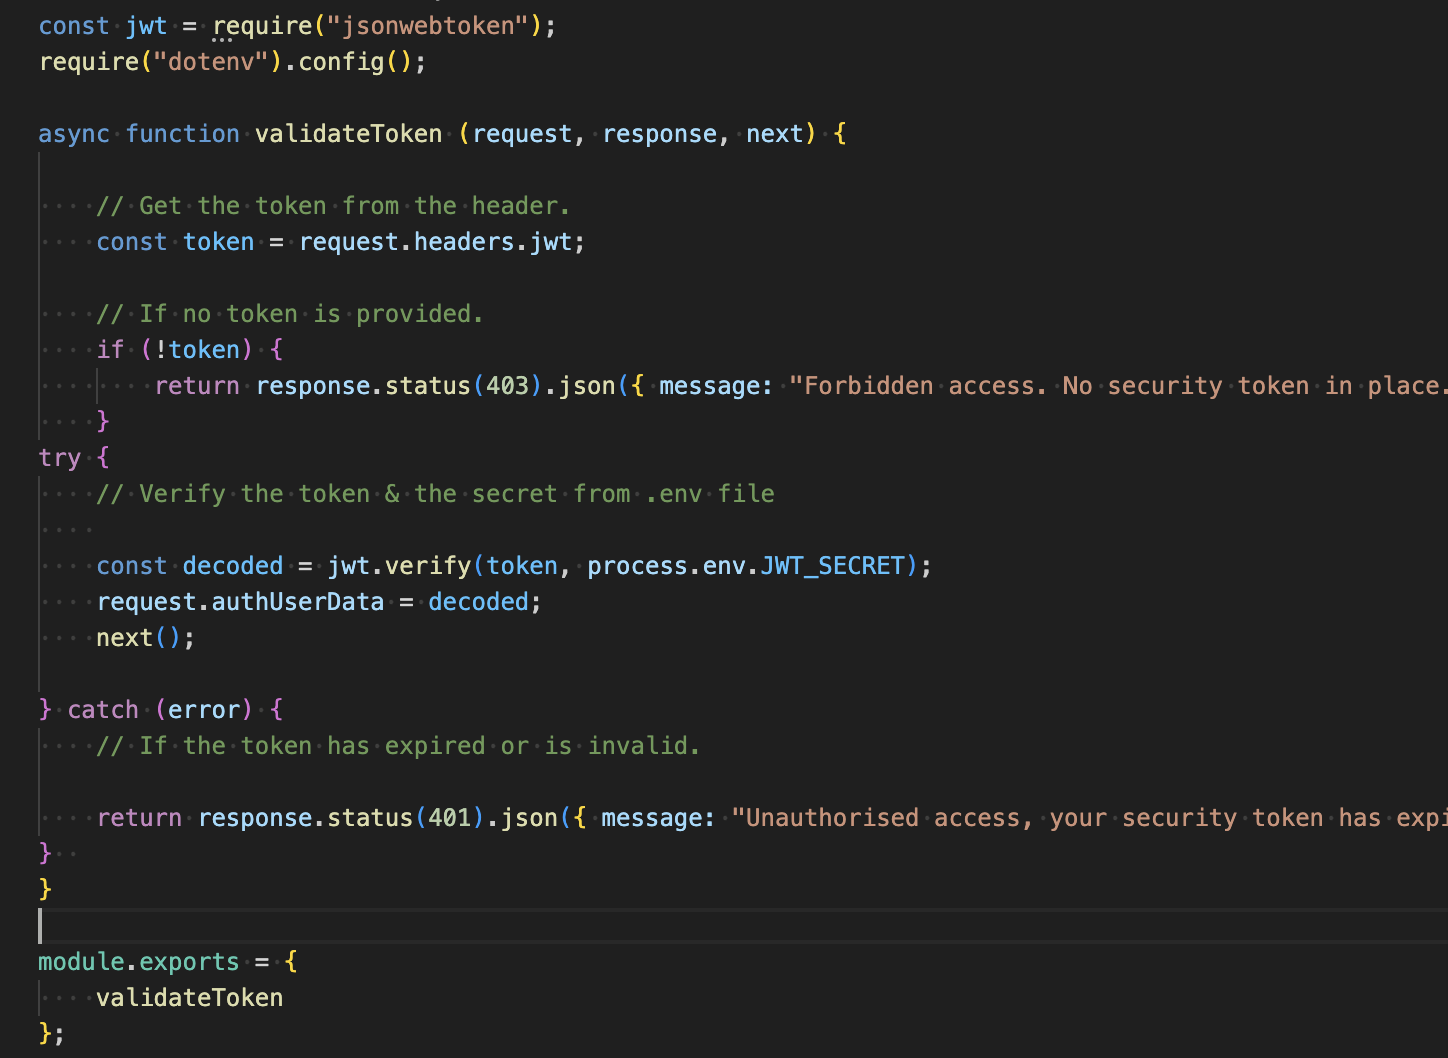
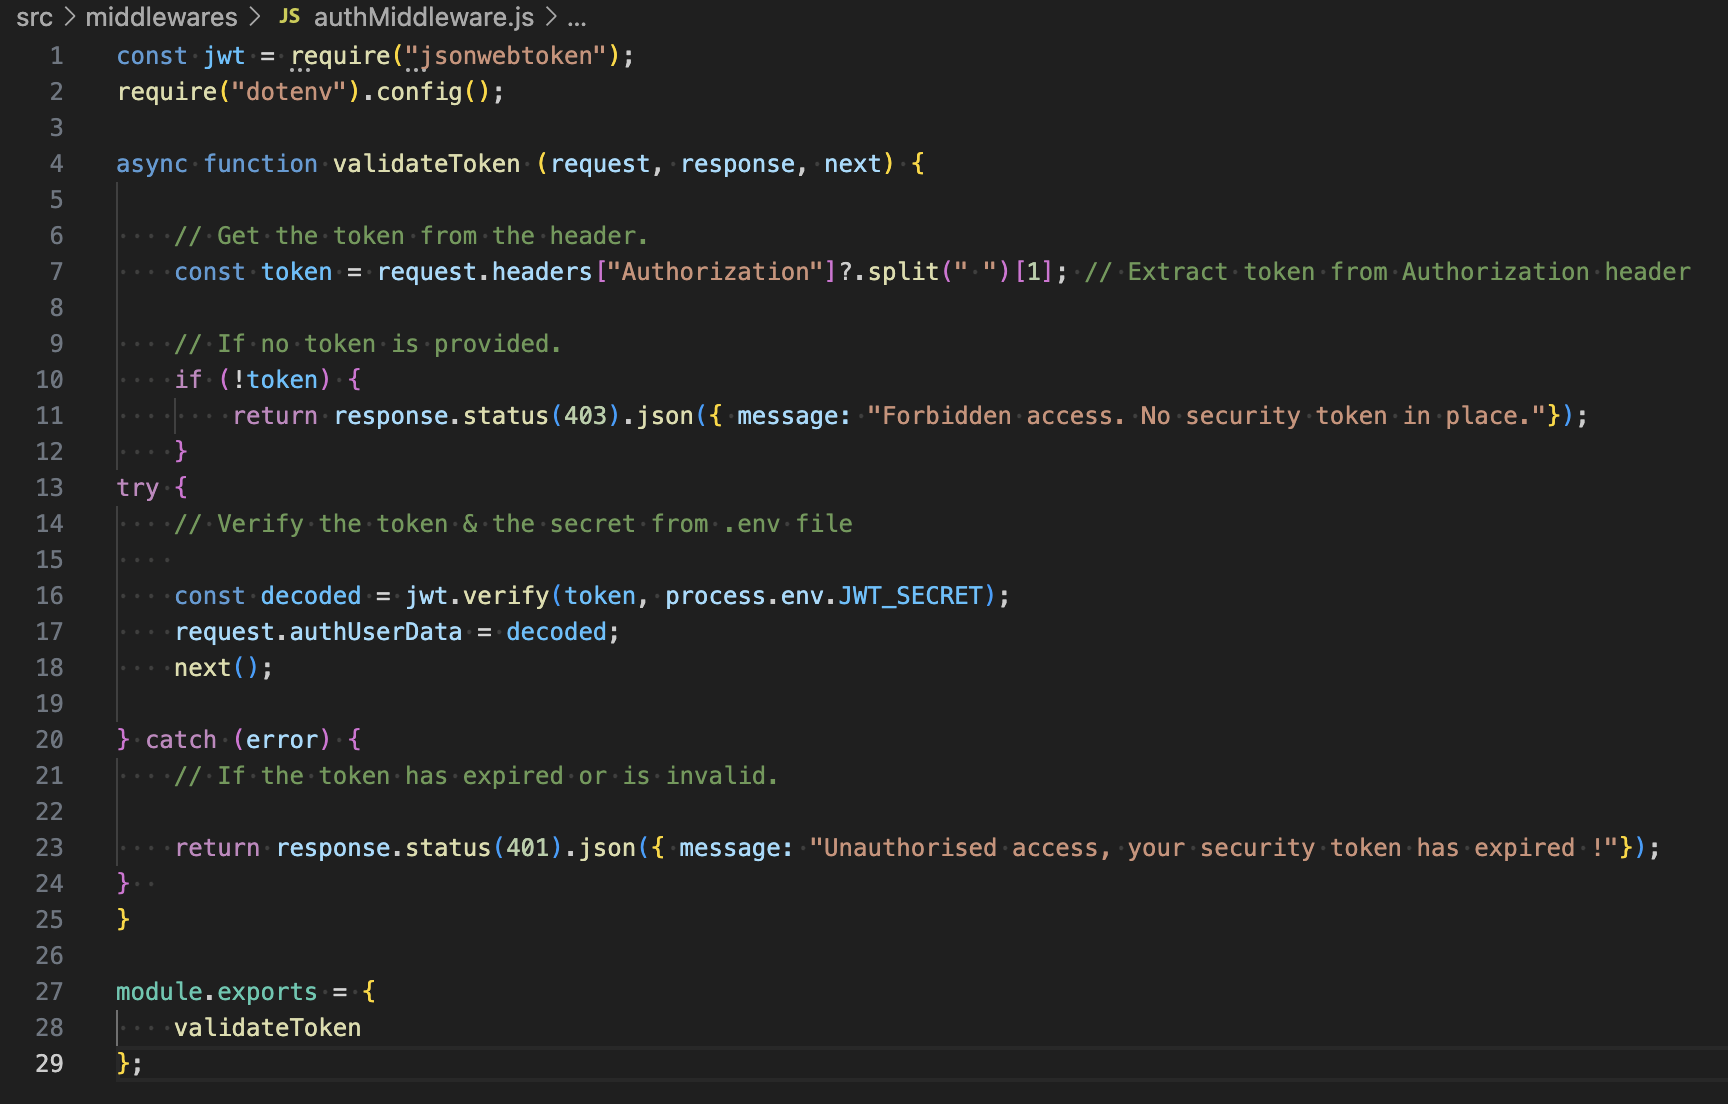
docs: Updated ReadMe file Server5 due to amended code.

diff --git a/server5.md b/server5.md
@@ -3,8 +3,11 @@
 ## Auth Middleware
 ![image_auth_middleware](./src/images/auth_middleware.png)
 
+This code defines a middleware function (validatteToken) for validating a JWT (JSON Web Token) authentication in Node.js application, it uses the jsonwebtoken library to verify tokens and check the user access to protected routes.
 
     const jwt = require("jsonwebtoken");
+
+#### Importing Dependencies
 
 This line of code imports the jsonwebtoken package which a library used to create, verify and decode JWT JSON Web Tokens. A JWT is a compact URL safe way of representing claims to be transferred between two parties, it is often used in authentication for web applications. When a user logs into the server it creates a JWT that contains the users identity or user ID it then reverts that back to the client. The client then includes a token in the head of future rquests to prove their identity.
 
@@ -13,6 +16,7 @@ This line of code imports the jsonwebtoken package which a library used to creat
 
 When you import the dotenv package it calls its config() function to load the environment variables from a .env file into process.env. These environment variables are typically used to store sensitive information like API keys, database credentials or secret keys outside of the codebase. You would usually store the secret key used for signing tokens inside the .env file. This way your sensitive information like JWT_SECRET is not hardcoded into your application which then improves your security.
 
+#### Validate Token Middleware Function
 
     async function validateToken (request, response, next) 
 
@@ -25,27 +29,37 @@ The <b>async</b> keyword is used to make the function asynchronous, meaning it c
 - <b>next</b> callback function is used to pass control to the next middleware or route handler. If the token is valid.
 - <b>next()</b> should be called to pass control to the next middleware or route handler, however if the token is invalid, an error response is sent and <b>next()</b> is not called.
 
+#### Extracting the Token from the Header
 
     // Get the token from the header.
-    const token = request.headers.jwt;
+    const token = request.headers["Authorization"]?.split(" ")[1]; // Extract token from Authorization header
 
-This middleware checks if the authorisation header contains a valid token, if the token isn't provided it sends a HTTP status response 403 status code and a message indicating access has been denied because no token has been provided.
+
+This function expects the token to be passed in the Authorisation heder of the HTTP request. It checks if the authorisation header contains a valid token, if it the Authorisation header exists, it splits the value a the space, and takes the second part(the token itself). If the token isn't provided it sends a HTTP status response 403 Forbidden status code and a message indicating "No security token in place" access has been denied because no token has been provided.
 
     // If no token is provided.
     if (!token) {
         return response.status(403).json({ message: "Forbidden access. No security token in place."});
     }
 
-If a token is provided, the middleware proceeds to verify the token using the <b>jwt.verify()</b> method from the JSONWebToken library. This method will then decode and validate the JWT against a secret key stored in the environment variable to ensure the token is legitimate and has not been tampered with.  If the token is expired or malformed, <b>jwt.verify()</b> will throw an error and the middleware will respod with a HTTP status code of 400 and a message indicating the token is invalid. If the token is valid then <b>jwt.verify()</b> will return the decoded payload of the user ID and other claims stored inside the token. This payload can be added to the request object so that  subsequent middleware and rout handlers can access it.
+
+#### Verify Token
+
+If a token is present, the middleware proceeds to verify the token using the <b>jwt.verify()</b> method from the JSONWebToken library. This method will then decode and validate the JWT against a secret key stored in the environment variable (request.authUserData) to ensure the token is legitimate and has not been tampered with.  If the token is expired or malformed, <b>jwt.verify()</b> will throw an error and the middleware will respod with a HTTP status code of 400 and a message indicating the token is invalid. If the token is valid then <b>jwt.verify()</b> will return the decoded payload of the user ID and other claims stored inside the token. This payload can be added to the request object so that  subsequent middleware and rout handlers can access it.
 
     try {
-    // Verify the token & the secret from .env file
+        // Verify the token & the secret from .env file
     
-    const decoded = jwt.verify(token, process.env.JWT_SECRET);
-    request.authUserData = decoded;
-    next();
+        const decoded = jwt.verify(token, process.env.JWT_SECRET);
+        request.authUserData = decoded;
+        next();
 
-    } catch (error) {   
+    } catch (error) {
+        // If the token has expired or is invalid.
+
+        return response.status(401).json({ message: "Unauthorised access, your security token has expired !"});
+    }  
+
 
 This is part of the JWT verification middleware which is designed to verify the authenticity of a JWT and attach the decoded tokens data to the request object. This allows the rest of the application to acess the user's data in subsequent middleware or route handlers. The
 
@@ -55,6 +69,8 @@ is using the jsonwebtokens library to verify the JWT. The token is sent by the c
 <b>jwt.verify()</b> will then decode the token and return the payload the user embedded in the token. If the token is invalid then it has either been tampered with, is expired or malformed and the verify() function will throw an error which gets caught in the catch block.
 
     <b>request.authUserData = decoded;</b> 
+    next();
+
 
 Is attached to the decoded user data, once the token is successfully verified, the decoded data is added to the request object. This makes the user data available to any subsequent route handlers or middleware.
 
@@ -66,9 +82,10 @@ Is attached to the decoded user data, once the token is successfully verified, t
 
 If an error occurs the 400 status code is sent back to the client along with the message "Unauthorised access, security token has expired." This informs the client that they need to provide a valid token or reauthenticate if token has expired.
 
+#### Exporting the Middleware
     
     module.exports = {
         validateToken
     };
 
-This will export the validateToken function from the current file so that it can be imported and used in other parts of the application, such as routes or other middleware. This is essential for maintaining modular architecture in your Node.js application.
+This will export the validateToken function from the current file so that it can be imported and used in other parts of the application, such as routes or other middleware. This is essential for maintaining modular architecture in your Node.js application.  It is useful in protecting routes that require user authentication by ensuring that only valid tokens ca access them.
